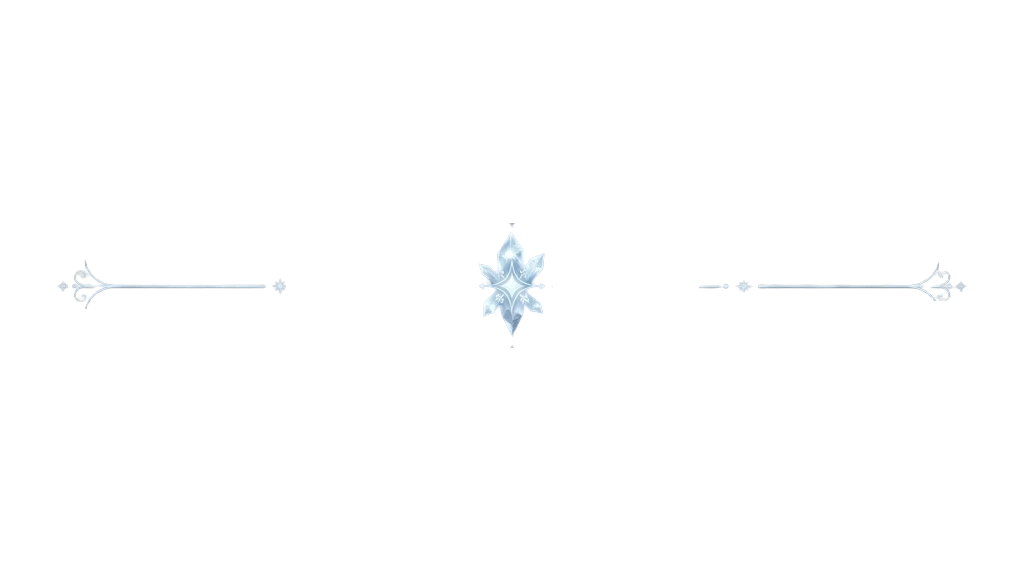
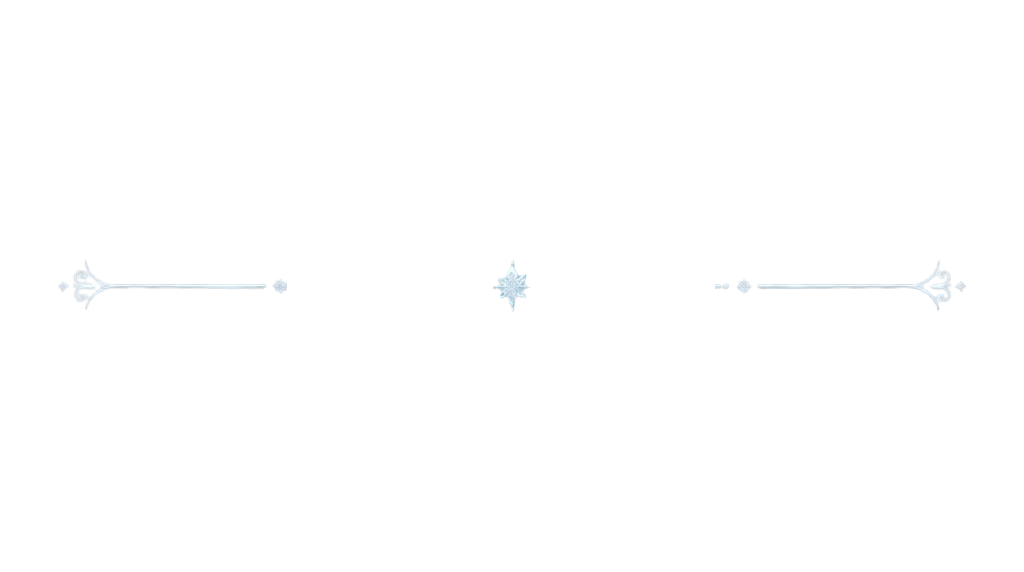
feat: complete Kai home screen

diff --git a/ui/kai_home/lib/main.dart b/ui/kai_home/lib/main.dart
@@ -145,13 +145,13 @@ return Scaffold(
       // KAI
       // =========================
       Positioned(
-        top: h * 0.08,
+        top: h * 0.15,
         left: 0,
         right: 0,
         child: Center(
           child: Image.asset(
             'assets/images/kai_home.png',
-            height: h * 0.89,
+            height: h * 1.1,
             fit: BoxFit.contain,
           ),
         ),
@@ -161,7 +161,7 @@ return Scaffold(
       // DIVIDER
       // =========================
       Positioned(
-        bottom: h * 0.18,
+        bottom: h * 0.35,
         left: 0,
         right: 0,
         child: Center(